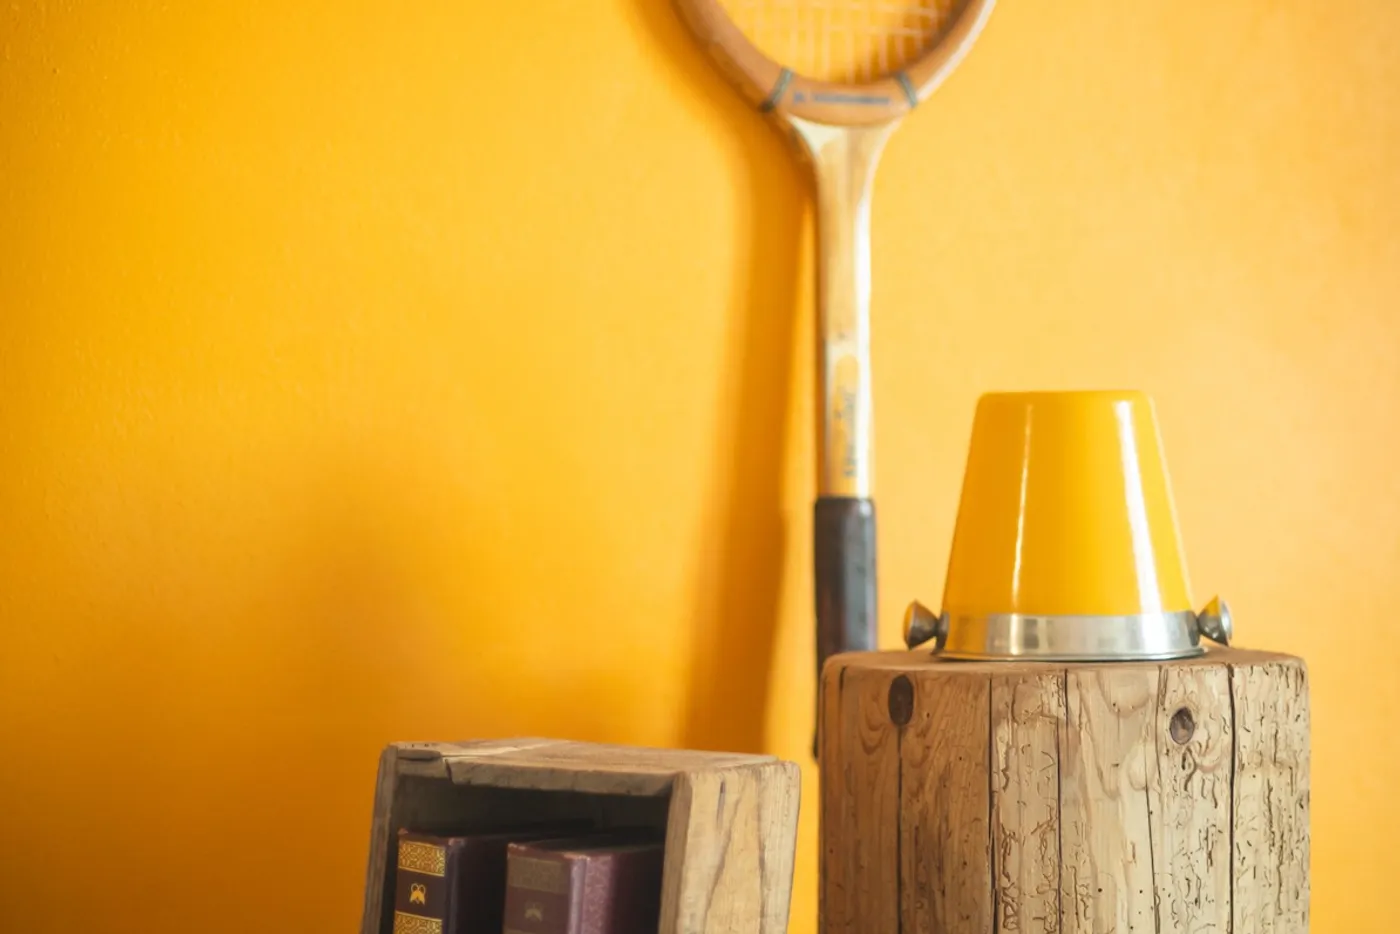
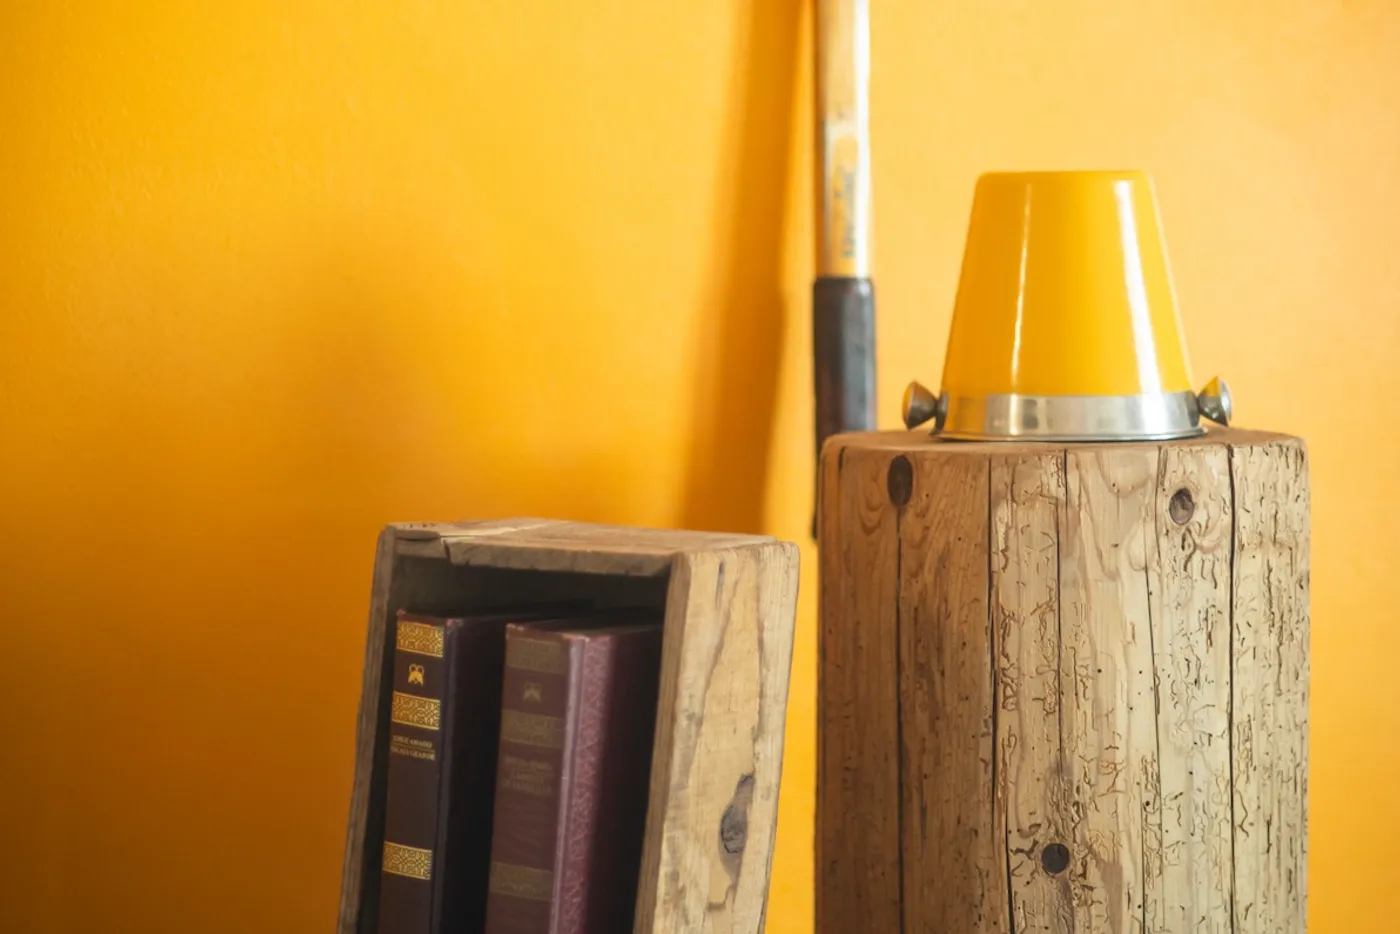
Foto aggiornata dal pannello: Camera Zucca

diff --git a/en/index.html b/en/index.html
@@ -1456,7 +1456,7 @@
         <article class="room room--d room--reverse">
           <div class="room__media">
             <div class="img-slot" data-room-img="right">
-              <img width="1400" height="934" src="../img/alloggi-zucca.webp?v=1786101695070" srcset="../img/alloggi-zucca-800.webp?v=1786101695070 800w, ../img/alloggi-zucca.webp?v=1786101695070 1400w" sizes="(max-width: 980px) 92vw, 705px" alt="The Zucca Room: authentic materials and handcrafted details" data-img-parallax loading="lazy" decoding="async" />
+              <img width="1400" height="934" src="../img/alloggi-zucca.webp?v=1786101945585" srcset="../img/alloggi-zucca-800.webp?v=1786101945585 800w, ../img/alloggi-zucca.webp?v=1786101945585 1400w" sizes="(max-width: 980px) 92vw, 705px" alt="The Zucca Room: authentic materials and handcrafted details" data-img-parallax loading="lazy" decoding="async" />
             </div>
           </div>
           <div class="room__text" data-room-text>

diff --git a/index.html b/index.html
@@ -1455,7 +1455,7 @@
         <article class="room room--d room--reverse">
           <div class="room__media">
             <div class="img-slot" data-room-img="right">
-              <img width="1400" height="934" src="img/alloggi-zucca.webp?v=1786101695070" srcset="img/alloggi-zucca-800.webp?v=1786101695070 800w, img/alloggi-zucca.webp?v=1786101695070 1400w" sizes="(max-width: 980px) 92vw, 705px" alt="La Camera Zucca: materiali autentici e dettagli artigianali" data-img-parallax loading="lazy" decoding="async" />
+              <img width="1400" height="934" src="img/alloggi-zucca.webp?v=1786101945585" srcset="img/alloggi-zucca-800.webp?v=1786101945585 800w, img/alloggi-zucca.webp?v=1786101945585 1400w" sizes="(max-width: 980px) 92vw, 705px" alt="La Camera Zucca: materiali autentici e dettagli artigianali" data-img-parallax loading="lazy" decoding="async" />
             </div>
           </div>
           <div class="room__text" data-room-text>
